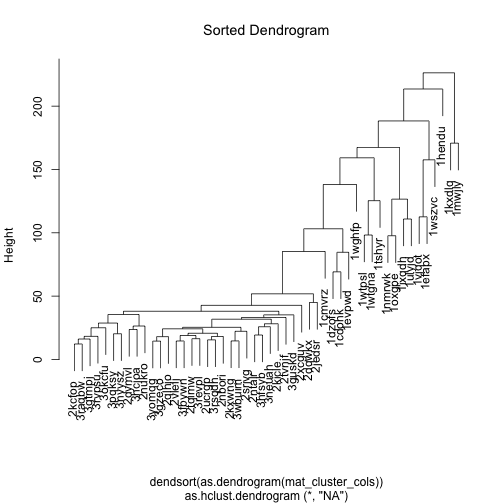
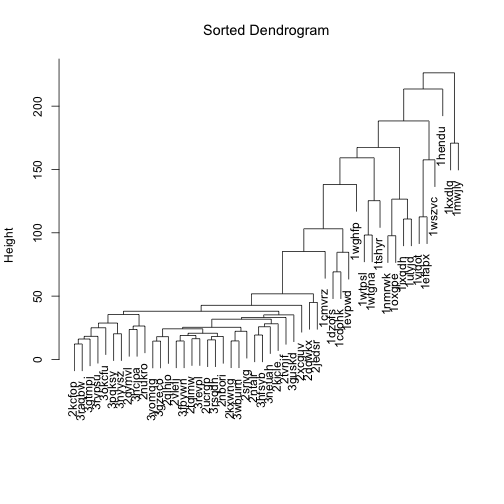
update heatmap post

Changed region(s): [[0.2976, 0.9524, 0.7738, 1.0]]

diff --git a/_posts/2017-02-16-heatmap-tutorial.md b/_posts/2017-02-16-heatmap-tutorial.md
@@ -14,13 +14,14 @@ breaks, so each color represents an equal proportion of the data. We'll also
 cluster the data with neatly sorted dendrograms, so it's easy to see which
 samples are closely or distantly related.
 
-# Steps
+# Summary
 1. Making random data
 2. Making a heatmap
 3. Uniform breaks
 4. Quantile breaks
 5. Transforming the data
 6. Sorting the dendrogram
+7. Rotating column labels
 
 # Making random data
 
@@ -123,16 +124,16 @@ mat_colors <- list(group = brewer.pal(3, "Set1"))
 names(mat_colors$group) <- unique(col_groups)
 
 pheatmap(
-  mat = mat,
-  color = inferno(10),
-  border_color = NA,
-  show_colnames = FALSE,
-  show_rownames = FALSE,
-  annotation_col = mat_col,
+  mat               = mat,
+  color             = inferno(10),
+  border_color      = NA,
+  show_colnames     = FALSE,
+  show_rownames     = FALSE,
+  annotation_col    = mat_col,
   annotation_colors = mat_colors,
-  drop_levels = TRUE,
-  fontsize = 14,
-  main = "Default Heatmap"
+  drop_levels       = TRUE,
+  fontsize          = 14,
+  main              = "Default Heatmap"
 )
 {% endhighlight %}
 
@@ -236,17 +237,17 @@ also distinguish different values within groups 2 and 3:
 
 {% highlight r %}
 pheatmap(
-  mat = mat,
-  color = inferno(length(mat_breaks) - 1),
-  breaks = mat_breaks,
-  border_color = NA,
-  show_colnames = FALSE,
-  show_rownames = FALSE,
-  annotation_col = mat_col,
+  mat               = mat,
+  color             = inferno(length(mat_breaks) - 1),
+  breaks            = mat_breaks,
+  border_color      = NA,
+  show_colnames     = FALSE,
+  show_rownames     = FALSE,
+  annotation_col    = mat_col,
   annotation_colors = mat_colors,
-  drop_levels = TRUE,
-  fontsize = 14,
-  main = "Quantile Color Scale"
+  drop_levels       = TRUE,
+  fontsize          = 14,
+  main              = "Quantile Color Scale"
 )
 {% endhighlight %}
 
@@ -260,16 +261,16 @@ breaks, and notice that the clustering is different on this scale:
 
 {% highlight r %}
 pheatmap(
-  mat = log10(mat),
-  color = inferno(10),
-  border_color = NA,
-  show_colnames = FALSE,
-  show_rownames = FALSE,
-  annotation_col = mat_col,
+  mat               = log10(mat),
+  color             = inferno(10),
+  border_color      = NA,
+  show_colnames     = FALSE,
+  show_rownames     = FALSE,
+  annotation_col    = mat_col,
   annotation_colors = mat_colors,
-  drop_levels = TRUE,
-  fontsize = 14,
-  main = "Default Heatmap"
+  drop_levels       = TRUE,
+  fontsize          = 14,
+  main              = "Log10 Transformed Values"
 )
 {% endhighlight %}
 
@@ -283,7 +284,7 @@ ordered randomly:
 
 {% highlight r %}
 mat_cluster_cols <- hclust(dist(t(mat)))
-plot(mat_cluster_cols, main = "Unsorted Dendrogram")
+plot(mat_cluster_cols, main = "Unsorted Dendrogram", xlab = "", sub = "")
 {% endhighlight %}
 
 ![plot of chunk hclust-default-example]({{ site.baseurl }}/public/figures/hclust-default-example-1.png)
@@ -298,8 +299,10 @@ side of the plot.
 # install.packages("dendsort")
 library(dendsort)
 
-mat_cluster_cols <- as.hclust(dendsort(as.dendrogram(mat_cluster_cols)))
-plot(mat_cluster_cols, main = "Sorted Dendrogram")
+sort_hclust <- function(...) as.hclust(dendsort(as.dendrogram(...)))
+
+mat_cluster_cols <- sort_hclust(mat_cluster_cols)
+plot(mat_cluster_cols, main = "Sorted Dendrogram", xlab = "", sub = "")
 {% endhighlight %}
 
 ![plot of chunk hclust-dendsort-example]({{ site.baseurl }}/public/figures/hclust-dendsort-example-1.png)
@@ -308,24 +311,69 @@ Let's do the same for rows, too, and use these dendrograms in the heatmap:
 
 
 {% highlight r %}
-mat_cluster_rows <- hclust(dist(mat))
-mat_cluster_rows <- as.hclust(dendsort(as.dendrogram(mat_cluster_rows)))
+mat_cluster_rows <- sort_hclust(hclust(dist(mat)))
 pheatmap(
-  mat = mat,
-  color = inferno(length(mat_breaks) - 1),
-  breaks = mat_breaks,
-  border_color = NA,
-  cluster_cols = mat_cluster_cols,
-  cluster_rows = mat_cluster_rows,
-  show_colnames = FALSE,
-  show_rownames = FALSE,
-  annotation_col = mat_col,
+  mat               = mat,
+  color             = inferno(length(mat_breaks) - 1),
+  breaks            = mat_breaks,
+  border_color      = NA,
+  cluster_cols      = mat_cluster_cols,
+  cluster_rows      = mat_cluster_rows,
+  show_colnames     = FALSE,
+  show_rownames     = FALSE,
+  annotation_col    = mat_col,
   annotation_colors = mat_colors,
-  drop_levels = TRUE,
-  fontsize = 14,
-  main = "Sorted Dendrograms"
+  drop_levels       = TRUE,
+  fontsize          = 14,
+  main              = "Sorted Dendrograms"
 )
 {% endhighlight %}
 
 ![plot of chunk pheatmap-quantile-dendsort-example]({{ site.baseurl }}/public/figures/pheatmap-quantile-dendsort-example-1.png)
+
+# Rotating column labels
+
+Here's a way to rotate the column labels in pheatmap (thanks to
+[Josh O'Brien][rotate]):
+
+[rotate]: http://stackoverflow.com/questions/15505607/diagonal-labels-orientation-on-x-axis-in-heatmaps/15506652#15506652
+
+
+{% highlight r %}
+# Overwrite default draw_colnames in the pheatmap package.
+# Thanks to Josh O'Brien at http://stackoverflow.com/questions/15505607
+draw_colnames_45 <- function (coln, gaps, ...) {
+    coord <- pheatmap:::find_coordinates(length(coln), gaps)
+    x     <- coord$coord - 0.5 * coord$size
+    res   <- grid::textGrob(
+      coln, x = x, y = unit(1, "npc") - unit(3,"bigpts"),
+      vjust = 0.75, hjust = 1, rot = 45, gp = grid::gpar(...)
+    )
+    return(res)
+}
+assignInNamespace(
+  x = "draw_colnames",
+  value = "draw_colnames_45",
+  ns = asNamespace("pheatmap")
+)
+
+pheatmap(
+  mat               = mat,
+  color             = inferno(length(mat_breaks) - 1),
+  breaks            = mat_breaks,
+  border_color      = NA,
+  cluster_cols      = mat_cluster_cols,
+  cluster_rows      = mat_cluster_rows,
+  cellwidth         = 20,
+  show_colnames     = TRUE,
+  show_rownames     = FALSE,
+  annotation_col    = mat_col,
+  annotation_colors = mat_colors,
+  drop_levels       = TRUE,
+  fontsize          = 14,
+  main              = "Rotated Column Names"
+)
+{% endhighlight %}
+
+![plot of chunk pheatmap-column-labels]({{ site.baseurl }}/public/figures/pheatmap-column-labels-1.png)
 
